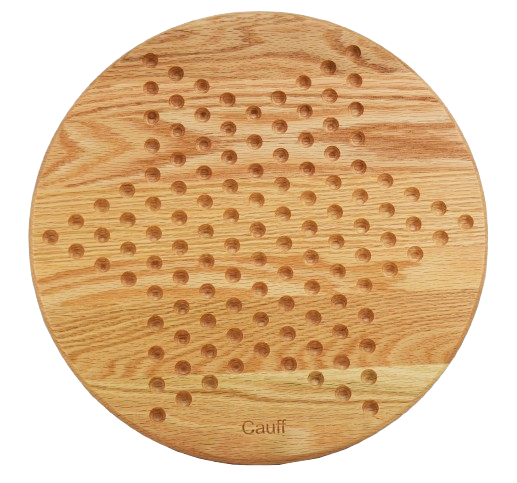
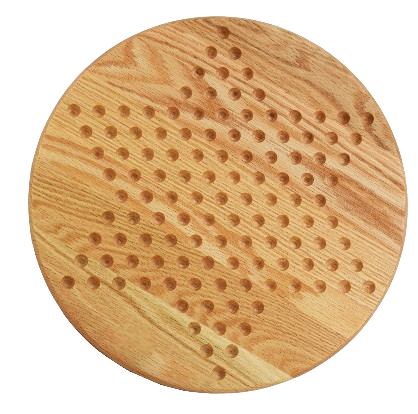
added board to game page

diff --git a/src/ChineseCheckers.java b/src/ChineseCheckers.java
@@ -10,8 +10,6 @@ import java.awt.event.*;
 import javax.swing.ImageIcon;
 
 
-import org.w3c.dom.events.MouseEvent;
-
 public class ChineseCheckers extends JPanel implements MouseListener {
 
     //frame sizes
@@ -109,9 +107,9 @@ public class ChineseCheckers extends JPanel implements MouseListener {
     // ------------------------------ DRAW BOARD ------------------------------
 
     public static void drawBoard(Graphics g) {
-        //Logo
         ImageIcon image = new ImageIcon("ChineseCheckersBoard.png");
         g.drawImage(image.getImage(), 360, 150, 550,550, null);
+
     }
 
     // ------------------------------ MOUSE CLICKED ------------------------------
@@ -129,6 +127,7 @@ public class ChineseCheckers extends JPanel implements MouseListener {
             }
         } else if (currentPage.equals("game")) {
             //TODO: ADD MARBLE MOVING LOGIC
+            System.out.println(aX + " " + aY);
         }
     }
 

diff --git a/src/Marble.java b/src/Marble.java
@@ -12,7 +12,7 @@ public class Marble {
 
     private double diameter;
     private Color color;
-    private boolean reachedGoal; // has this marble reached the opposite triangle?
+    private boolean reachedGoal; // if the marble reached the opposite triangle
 
     // default constructor
     public Marble() {
@@ -45,7 +45,7 @@ public class Marble {
         g.drawOval((int)(x - radius), (int)(y - radius), (int)diameter, (int)diameter);
     }
 
-    // move marble to a new grid position and update pixel coords
+    // move marble to a new grid position and update pixel coordinates
     public void moveTo(int newRow, int newCol, double newX, double newY) {
         this.row = newRow;
         this.col = newCol;
